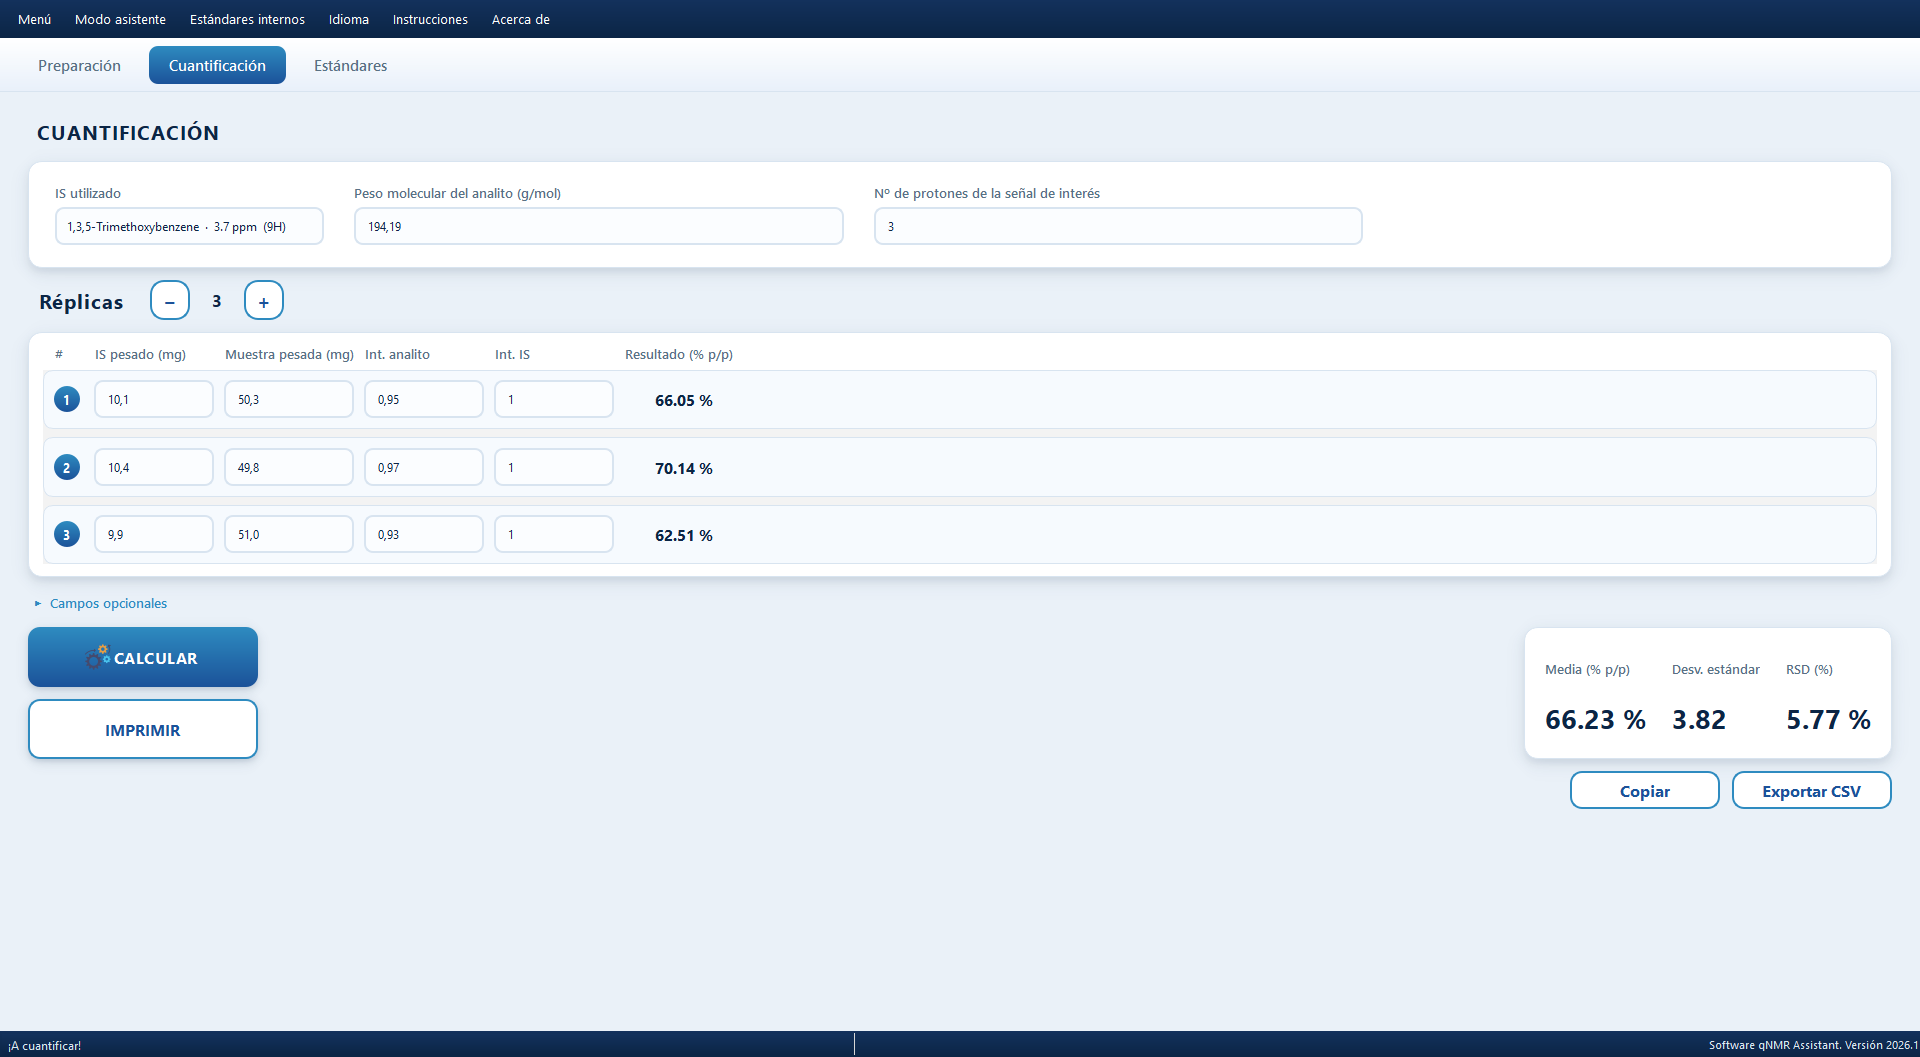
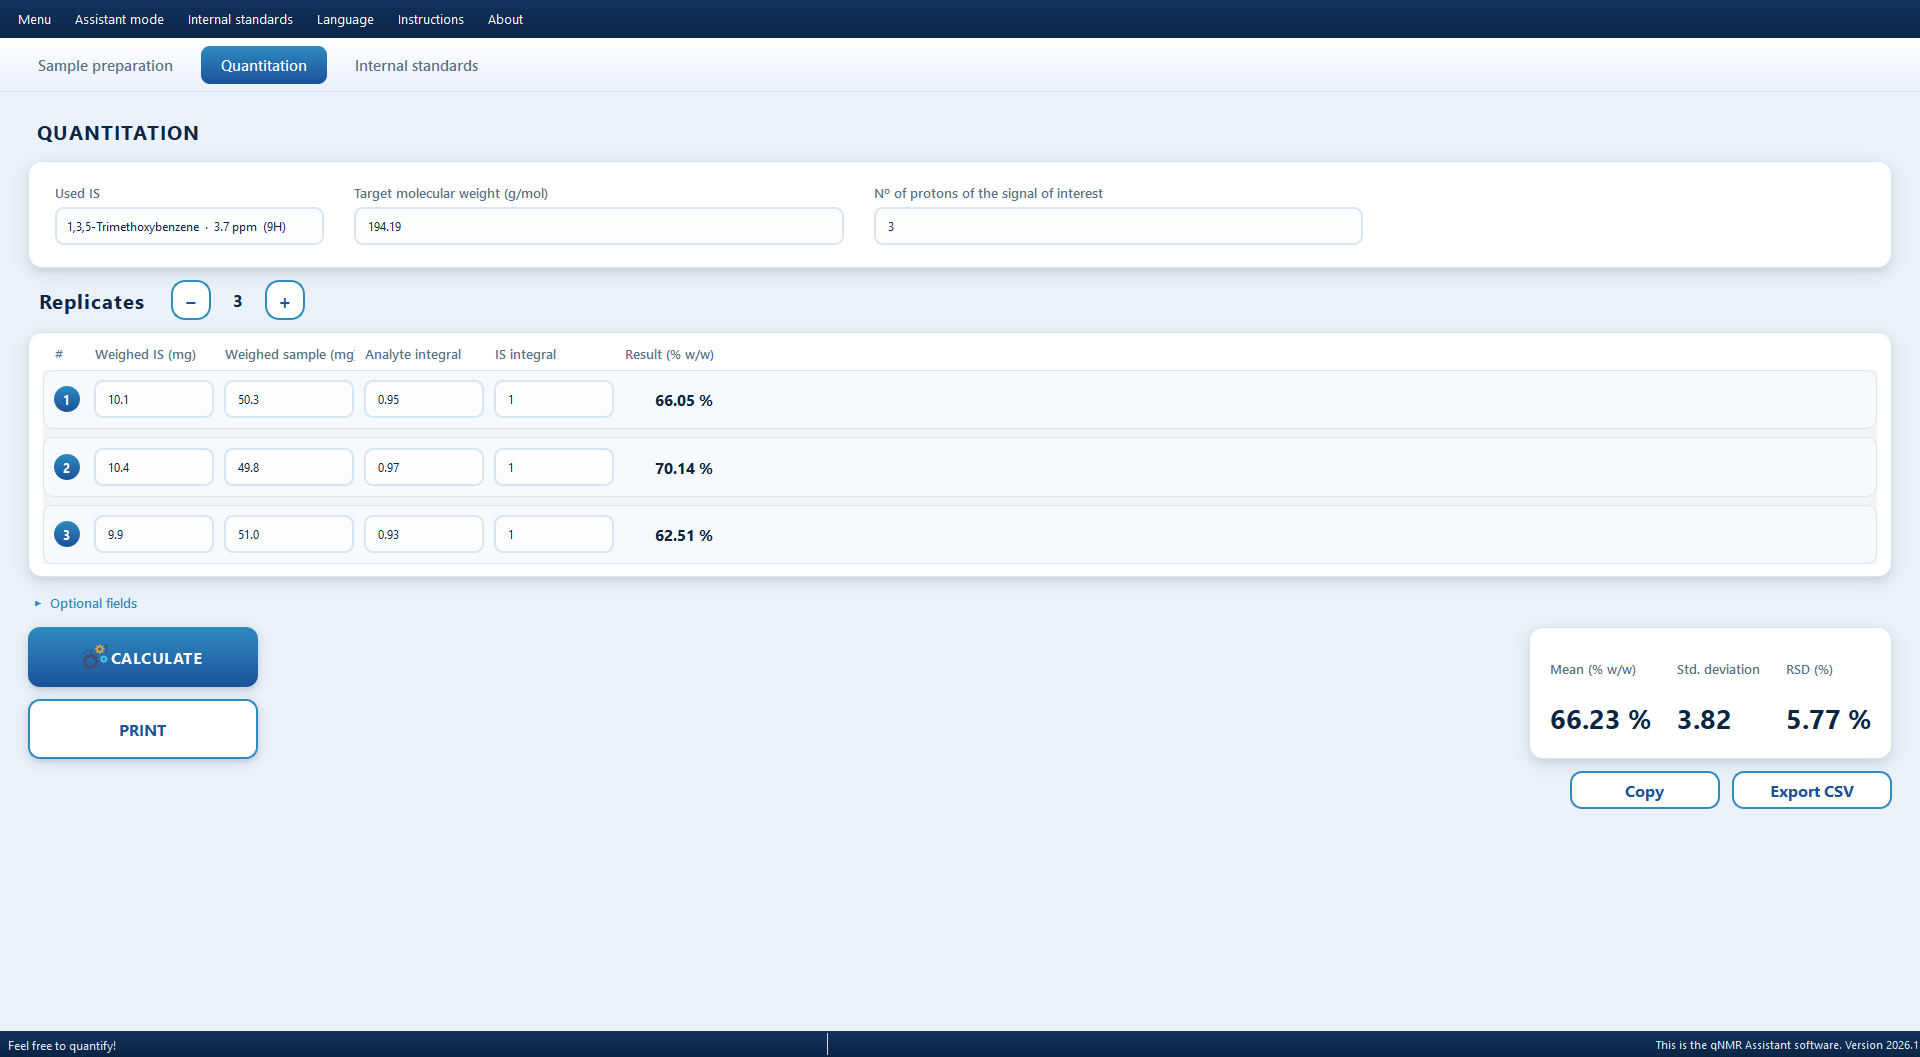
Reorganize repository layout; English screenshot
- Move source code and assets to src/, tests to tests/, PyInstaller spec
  and build docs to packaging/ so the repository root stays uncluttered.
- Anchor resource_path() to the module directory instead of the working
  directory, so `python src/app.py` works from anywhere.
- Spec now resolves paths via SPECPATH; CI workflow updated accordingly.
- README screenshot retaken with the interface in English.

diff --git a/README.md b/README.md
@@ -1,5 +1,5 @@
 <p align="center">
-  <img src="assets/images/app_logo.png" width="96" alt="qNMR Assistant logo">
+  <img src="src/assets/images/app_logo.png" width="96" alt="qNMR Assistant logo">
 </p>
 
 <h1 align="center">qNMR Assistant</h1>
@@ -59,7 +59,7 @@ P_x (% w/w) = (I_x / I_IS) · (N_IS / N_x) · (M_x / M_IS) · (m_IS / m_x) · P_
 where `I` are the measured integrals, `N` the number of protons of each signal,
 `M` the molecular weights, `m` the weighed masses and `P_IS` the purity of the
 internal standard. The formulas are validated by the test suite in
-[`test_formulas.py`](test_formulas.py), which runs on every release build.
+[`tests/test_formulas.py`](tests/test_formulas.py), which runs on every release build.
 
 ## Run from source
 
@@ -69,14 +69,14 @@ cd qNMR-Assistant
 python -m venv venv
 # Windows: venv\Scripts\activate   |   macOS/Linux: source venv/bin/activate
 pip install -r requirements.txt
-python app.py
+python src/app.py
 ```
 
 Requires Python ≥ 3.10. The only runtime dependency is PyQt6.
 
 ## Build the executables
 
-See [BUILD.md](BUILD.md). Releases are built automatically by
+See [packaging/BUILD.md](packaging/BUILD.md). Releases are built automatically by
 [GitHub Actions](.github/workflows/release.yml) on Windows, Linux and macOS
 runners whenever a `v*` tag is pushed.
 